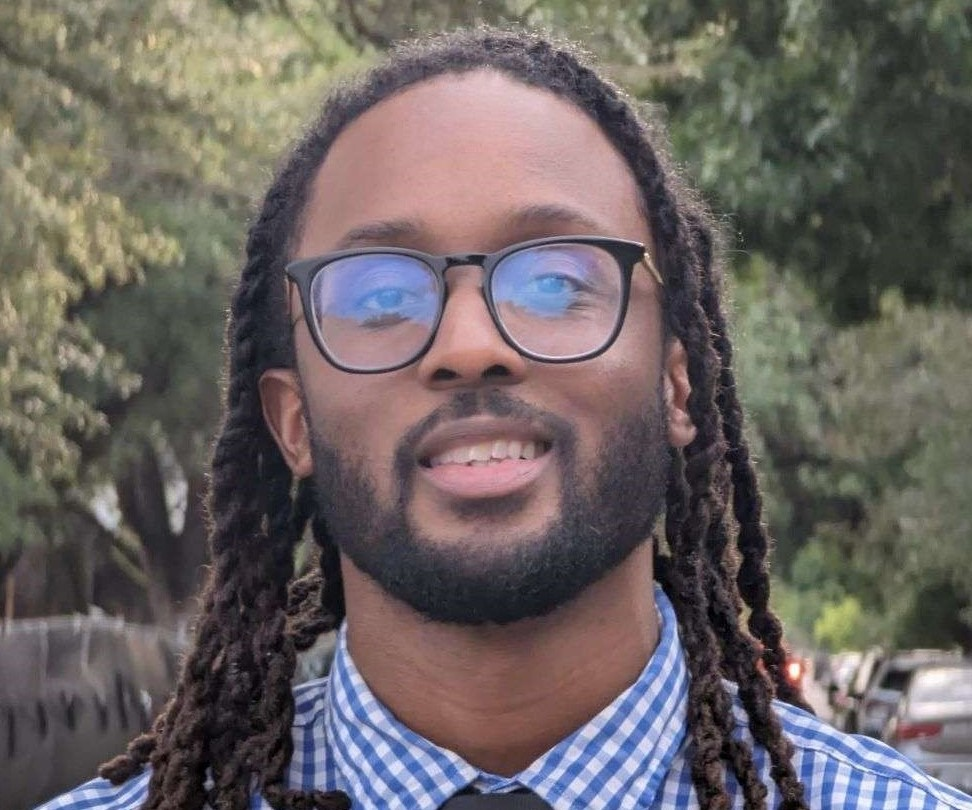
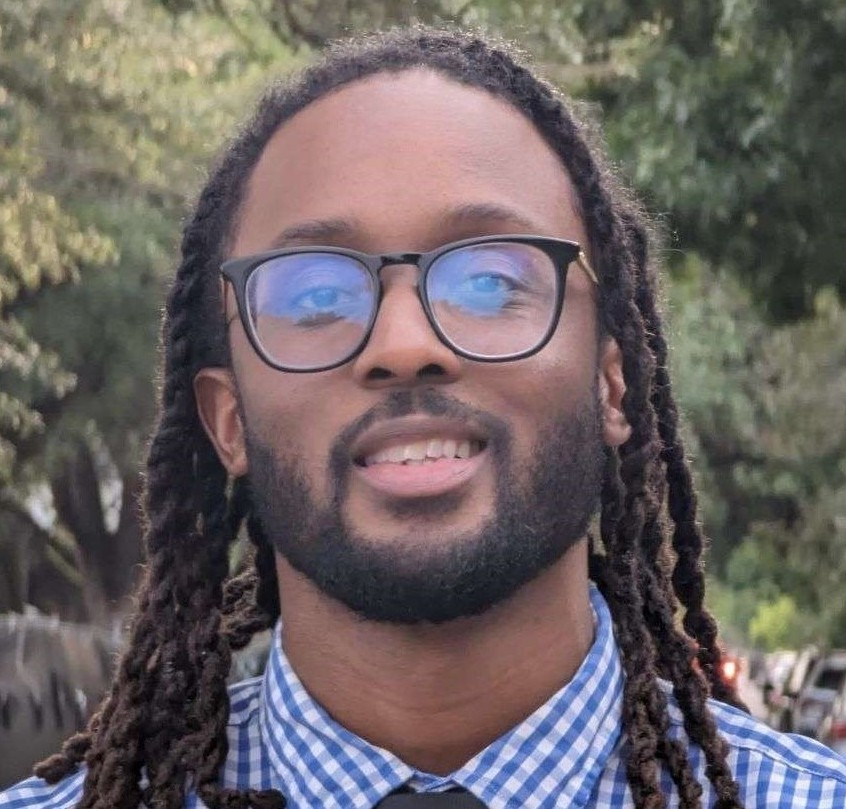
made website mobile friendly, recropped team images

diff --git a/src/app/process/process.component.html b/src/app/process/process.component.html
@@ -1,5 +1,5 @@
-<section class="border-0 border-yellow-300 flex my-10 mb-32">
-<div  id="tab-items" class="w-1/2 border-0 border-red-300 m-4">
+<section class="border-0 border-yellow-300 flex flex-col-reverse items-center md:flex-row my-10 mb-32">
+<div  id="tab-items" class="md:w-1/2 border-0 border-red-300 m-4">
     <div data-aos-offset="800" data-aos="fade-up" id="tab1" class="tabs border-0 border-gray-400 p-3 mb-2 shadow-md rounded cursor-pointer bg-gray-200 scale-95 hover:scale-95 duration-300" (click)="tabSwitch('#tab1','#gif1')">
         <h3 class="text-2xl">Create Components</h3>
         <div class="text-gray-700"> Create custom components. Drag and drop HTML elements. See the dynamically generated code live update in the preview.</div>
@@ -21,7 +21,7 @@
         <div class="text-gray-700">Export your projects blueprints and copy directly into your Angular application to instantly setup.</div>
     </div>
 </div>
-<div data-aos-offset="200" class="w-1/2 border-0 border-green-300 flex justify-center items-center">
+<div data-aos-offset="200" class="md:w-1/2 border-0 p-2 md:p-0 border-green-300 flex justify-center items-center">
     <div data-aos="zoom-in" data-aos-offset="550" id="gif-container" class="border-0 border-yellow-400 text-3xl rounded-xl m-2">
         <img id="gif1" class="rounded-lg" src="../../assets/videos/Create-demo.gif">
         <img id="gif2" class="hidden rounded-lg" src="../../assets/videos/Tree-demo.gif">

diff --git a/src/app/demo/demo.component.html b/src/app/demo/demo.component.html
@@ -1,11 +1,11 @@
 <section id="demo" class="mt-20 border-indigo-600 border-0 h-screen flex flex-col items-center">
-    <div class="flex flex-col items-center mt-32 mb-14">
-        <img data-aos="zoom-out-down" data-aos-duration="500" class="h-24 mb-4" src="../../assets/logos/protract-high-resolution-logo-red-link.png">
-        <p data-aos="zoom-out-down" data-aos-duration="800" class="mb-2 text-2xl text-center text-gray-600">Software to assit engineers<br> build their Angular applications faster.</p>
+    <div class="flex flex-col items-center mt-32 mb-6 md:mb-16">
+        <img data-aos="zoom-out-down" data-aos-duration="500" class="md:h-24 mb-4" src="../../assets/logos/protract-high-resolution-logo-red-link.png">
+        <p data-aos="zoom-out-down" data-aos-duration="800" class="text-2xl text-center text-gray-600">Software to assit engineers<br> build their Angular applications faster.</p>
     </div>
     <br>
     <div class="flex justify-center">
-        <img data-aos="zoom-out-up" data-aos-delay="600" data-aos-duration="500" class="rounded w-max" src="../../assets/videos/Protract-demo.gif">
+        <img data-aos="zoom-out-up" data-aos-delay="600" data-aos-duration="500" class="rounded w-max p-2 md:p-0" src="../../assets/videos/Protract-demo.gif">
     </div>
 
 </section>

diff --git a/src/app/features/features.component.html b/src/app/features/features.component.html
@@ -1,14 +1,14 @@
-<section class="mt-16">
+<section class="mt-32 md:mt-16">
     <div data-aos="fade-up" data-aos-duration="1000">
         <h1 class='text-center text-sm features text-red-600 my-3'>KEY FEATURES</h1>
-        <h2 class="text-center text-5xl mb-5">What can you do with the power of Protract?</h2>
+        <h2 class="text-center text-3xl md:text-5xl md:mb-5">What can you do with the power of Protract?</h2>
     </div>
     <div data-aos="fade-up" data-aos-delay="300" data-aos-duration="500"
         class='flex justify-around flex-wrap featureContainer border-0'>
         <app-card-features *ngFor="let cardfeatures of cardFeatures" [cardFeatures]="cardfeatures"></app-card-features>
     </div>
     <div data-aos="fade-right" data-aos-duration="1000" data-aos-offset="700">
-        <h2 class="border-0 text-5xl text-center mt-52 mb-20">Build your applications faster than ever before.<br>
+        <h2 class="border-0 text-3xl md:text-5xl text-center mt-52 mb-20">Build your applications faster than ever before.<br>
             Recliam time to spend on
             meaningful work.</h2>
     </div>

diff --git a/src/app/team/team.component.html b/src/app/team/team.component.html
@@ -1,7 +1,7 @@
 <section id = "team">
     <div data-aos-offset="700" data-aos="fade-up" class="flex flex-col items-center justify-center">
         <h1 class='text-center text-sm features text-red-600 my-3'>TEAM</h1>
-        <h2 class="text-center text-5xl mb-5">Meet the team</h2>
+        <h2 class="text-center text-4xl md:text-5xl mb-5">Meet the team</h2>
     </div>
     <div data-aos-offset="700" data-aos="fade-up" class = "flex justify-around flex-wrap">
         <app-card 

diff --git a/src/app/navbar/navbar.component.html b/src/app/navbar/navbar.component.html
@@ -1,5 +1,5 @@
 
-<nav class="bg-white shadow py-4 px-8 md:flex md:items-center md:justify-between fixed w-full z-50">
+<nav class="bg-white shadow py-4 px-3 md:px-8 md:flex md:items-center md:justify-between fixed w-full z-50">
     <div class="flex justify-between items-center">
         <a href="#top"><img class="h-7 inline cursor-pointer" src="../../assets/logos/protract-logo-red-link.png" ></a>
         <span class="cursor-pointer">

diff --git a/src/app/features/features.component.ts b/src/app/features/features.component.ts
@@ -17,6 +17,7 @@ export class FeaturesComponent {
       once : true,
       offset : 200,
       duration : 500,
+      disable: 'mobile',
     });
   }
   cardFeatures: Features[]
